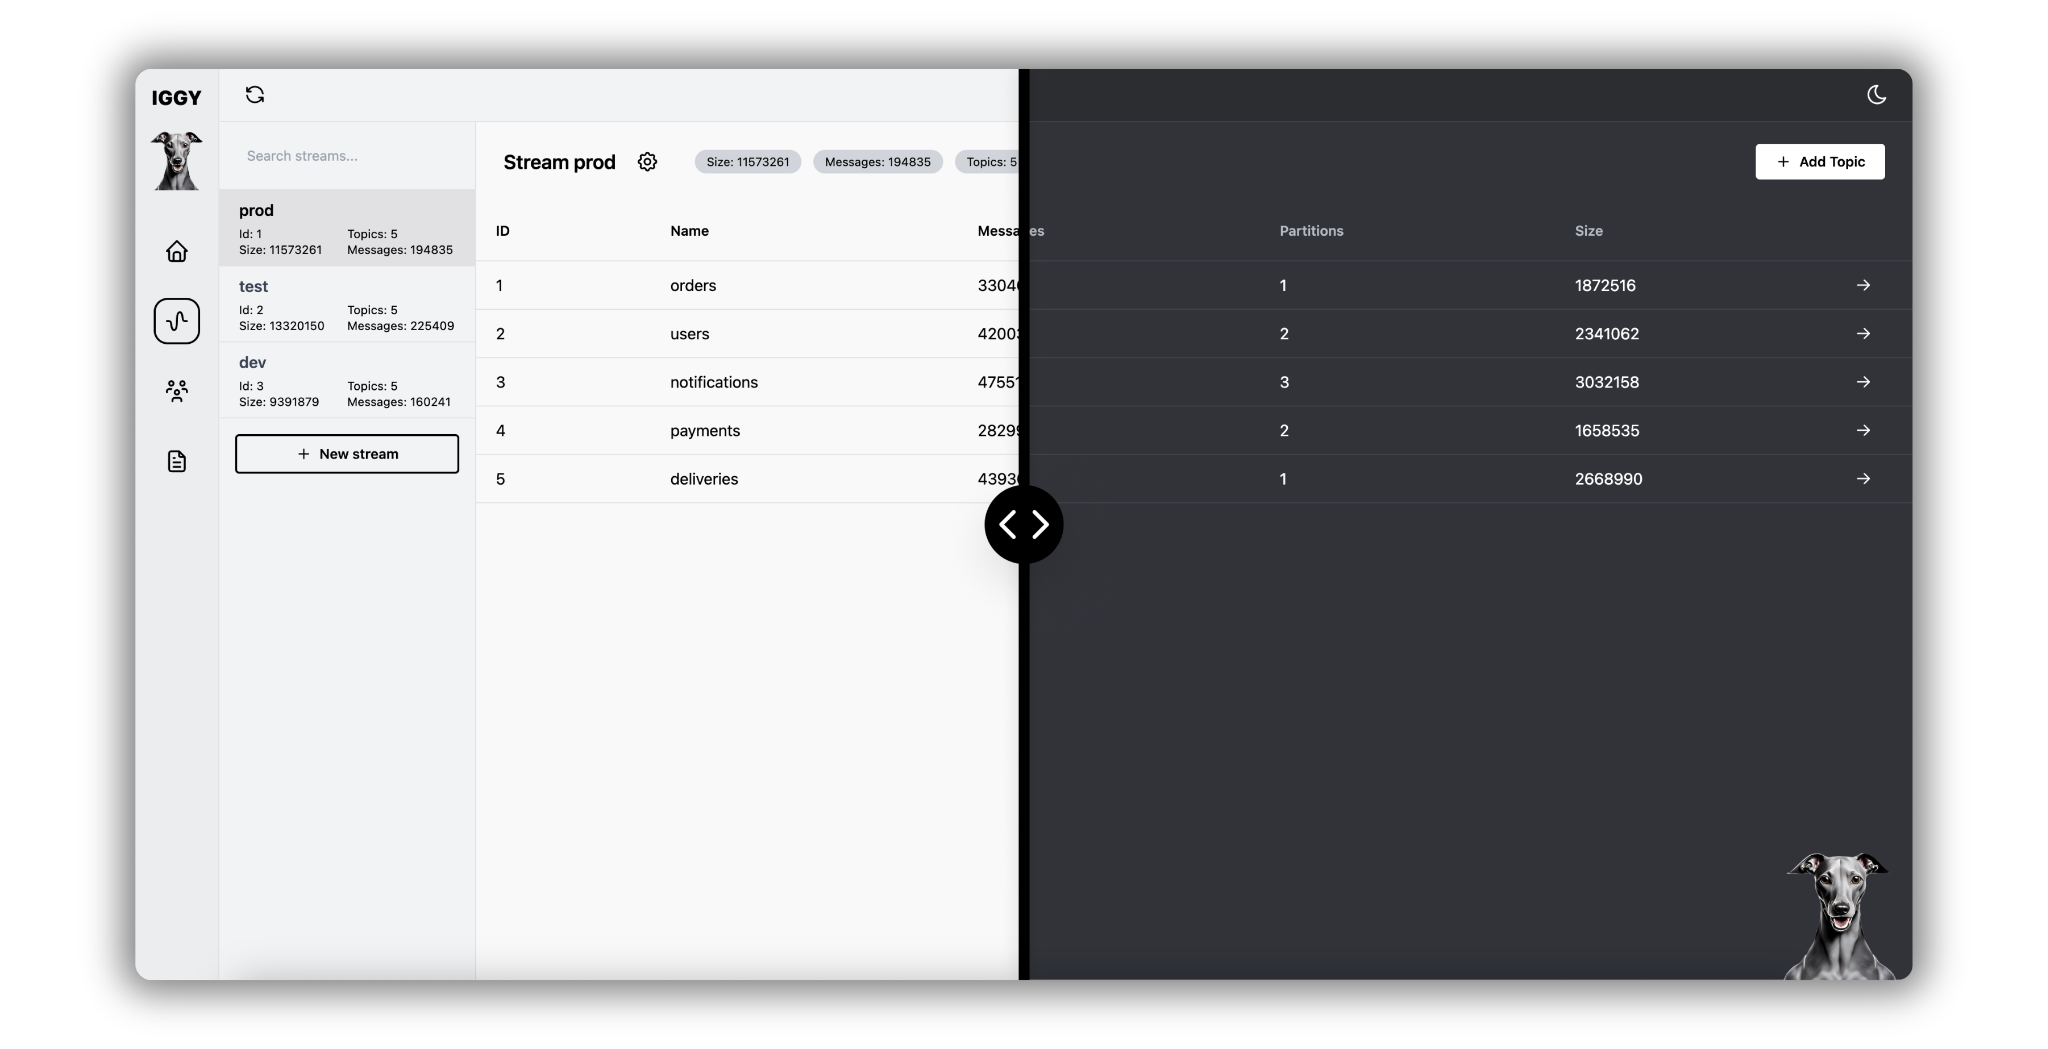
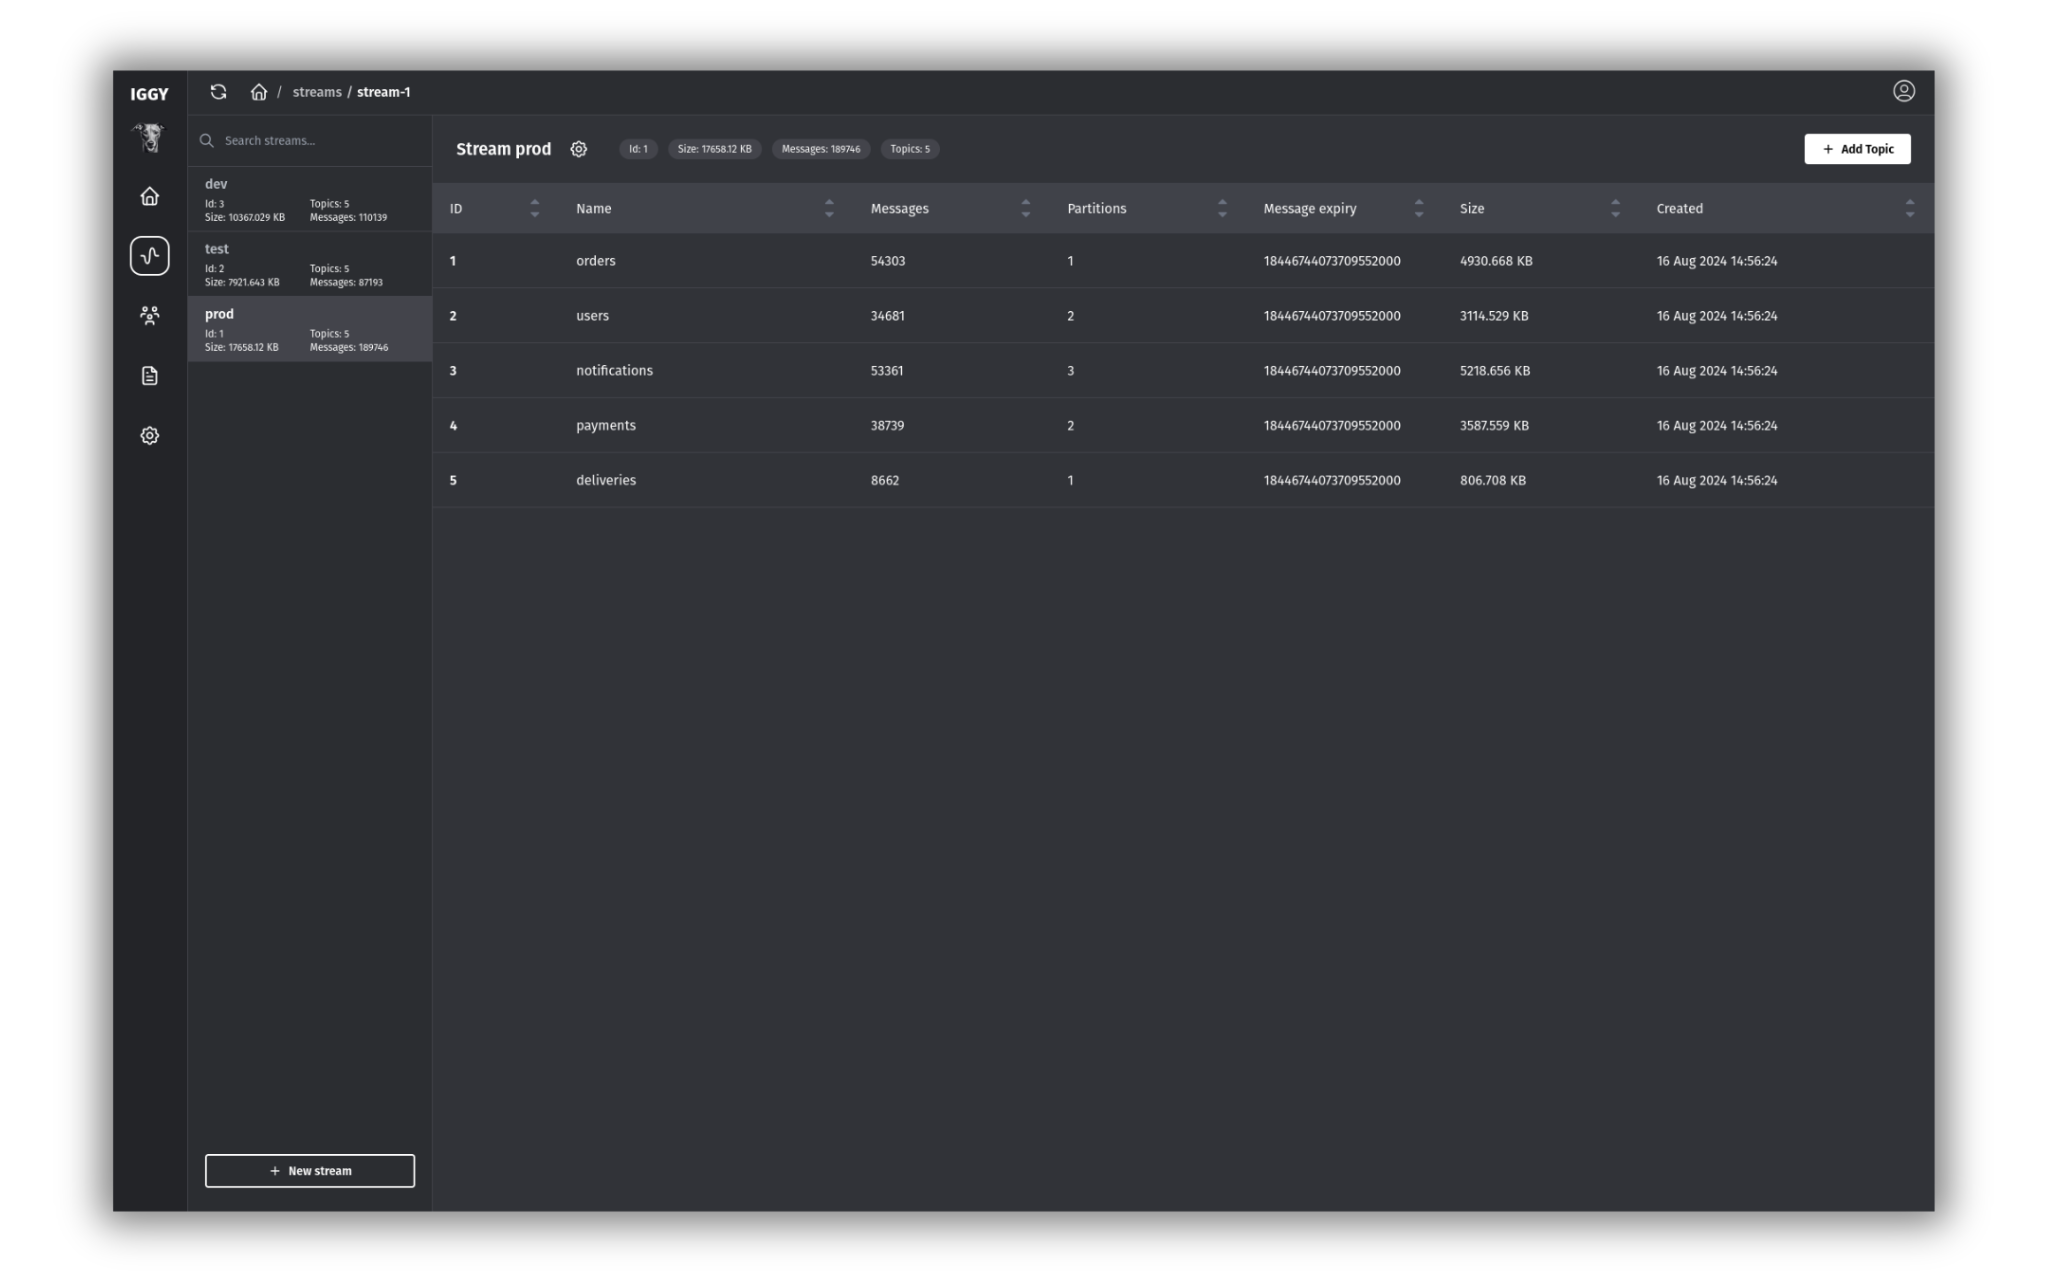
Update readme (#1145)

diff --git a/README.md b/README.md
@@ -64,6 +64,7 @@ The name is an abbreviation for the Italian Greyhound - small yet extremely fast
 - **Consumer groups** providing the message ordering and horizontal scaling across the connected clients
 - **Message expiry** with auto deletion based on the configurable **retention policy**
 - Additional features such as **server side message deduplication**
+- **Multi-tenant** support thanks to the concept of **streams** grouping the **topics**
 - **TLS** support for all transport protocols (TCP, QUIC, HTTPS)
 - Optional server-side as well as client-side **data encryption** using AES-256-GCM
 - Optional metadata support in the form of **message headers**
@@ -76,10 +77,9 @@ The name is an abbreviation for the Italian Greyhound - small yet extremely fast
 
 ## Roadmap
 
-- Streaming server caching and I/O improvements
 - Low level optimizations (zero-copy etc.)
+- Shared-nothing design and io_uring support
 - Clustering & data replication
-- Rich console CLI
 - Advanced Web UI
 - Developer friendly SDK supporting multiple languages
 - Plugins & extensions support
@@ -197,11 +197,7 @@ To see the detailed logs from the CLI/server, run it with `RUST_LOG=trace` envir
 
 ![files structure](assets/files_structure.png)*Files structure*
 
-![server start](assets/server_start.png)*Server start*
-
-![cli_start](assets/cli_start.png)*CLI start*
-
-![server restart](assets/server_restart.png)*Server restart*
+![server](assets/server.png)*Server*
 
 ---
 
@@ -216,6 +212,55 @@ You might start multiple producers and consumers at the same time to see how the
 By default, the consumer will poll the messages using the `next` available offset with auto commit enabled, to store its offset on the server. With this approach, you can easily achieve *at-most-once* delivery.
 
 ![sample](assets/sample.png)
+
+---
+
+## SDK
+
+Iggy comes with the Rust SDK, which is available on [crates.io](https://crates.io/crates/iggy).
+
+The SDK provides both, low-level client for the specific transport, which includes the message sending and polling along with all the administrative actions such as managing the streams, topics, users etc., as well as the high-level client, which abstracts the low-level details and provides the easy-to-use API for both, message producers and consumers.
+
+You can find the more examples, including the multi-tenant one under the `examples` directory.
+```rust
+// Create the Iggy client
+let client = IggyClient::from_connection_string("iggy://user:secret@localhost:8090")?;
+
+// Create a producer for the given stream and one of its topics
+let mut producer = client
+    .producer("dev01", "events")?
+    .batch_size(1000)
+    .send_interval(IggyDuration::from_str("1ms")?)
+    .partitioning(Partitioning::balanced())
+    .build();
+
+producer.init().await?;
+
+// Send some messages to the topic
+let messages = vec![Message::from_str("Hello Iggy.rs")?];
+producer.send(messages).await?;
+
+// Create a consumer for the given stream and one of its topics
+let mut consumer = client
+	.consumer_group("my_app", "dev01", "events")?
+	.auto_commit(AutoCommit::IntervalOrWhen(
+		IggyDuration::from_str("1s")?,
+		AutoCommitWhen::ConsumingAllMessages,
+	))
+	.create_consumer_group_if_not_exists()
+	.auto_join_consumer_group()
+	.polling_strategy(PollingStrategy::next())
+	.poll_interval(IggyDuration::from_str("1ms")?)
+	.batch_size(1000)
+	.build();
+
+consumer.init().await?;
+
+// Start consuming the messages
+while let Some(message) = consumer.next().await {
+    // Handle the message
+}
+```
 
 ---
 
@@ -260,6 +305,6 @@ Then, run the benchmarking app with the desired options:
 These benchmarks would start the server with the default configuration, create a stream, topic and partition, and then send or poll the messages. The default configuration is optimized for the best performance, so you might want to tweak it for your needs. If you need more options, please refer to `iggy-bench` subcommands `help` and `examples`.
 For example, to run the benchmark for the already started server, provide the additional argument `--server-address 0.0.0.0:8090`.
 
-Depending on the hardware, transport protocol (`quic`, `tcp` or `http`) and payload size (`messages-per-batch * message-size`) you might expect **over 4000 MB/s (e.g. 4M of 1 KB msg/sec) throughput for writes and 6000 MB/s for reads**. These results have been achieved on Apple M1 Max with 64 GB RAM.
+Depending on the hardware, transport protocol (`quic`, `tcp` or `http`) and payload size (`messages-per-batch * message-size`) you might expect **over 3000 MB/s (e.g. 4M of 1 KB msg/sec) throughput for writes and 10000 MB/s for reads**. These results have been achieved on Ryzen 9 7950X with 64 GB RAM and gen 4 NVMe SSD.
 
 ---
